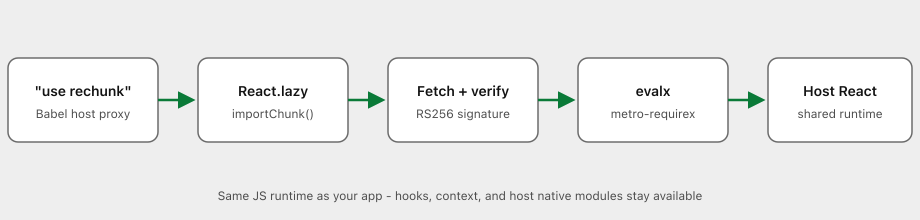
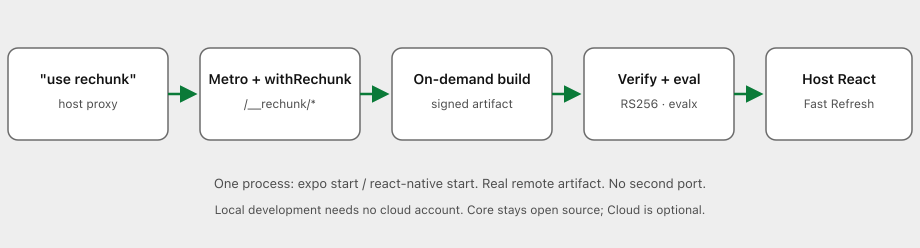
Align README with target Metro-integrated architecture from the blueprint.

diff --git a/README.md b/README.md
@@ -6,7 +6,7 @@
 
   <h1>ReChunk</h1>
 
-  <p><strong>Deploy a React Native component independently — without changing how you build your app.</strong></p>
+  <p><strong>Independently build, develop, deliver, and manage ordinary React Native components — without replacing Metro or restructuring the app.</strong></p>
 
   <p>
     <a href="https://www.npmjs.com/package/@rechunk/core"><img src="https://img.shields.io/npm/v/@rechunk/core.svg?style=flat-square&color=121212" alt="npm @rechunk/core"></a>
@@ -28,17 +28,34 @@
 
 <br>
 
-**ReChunk** is a component-level delivery layer for React Native developers. Mark a file with `"use rechunk"`, keep Metro and Expo as they are, and ship that one component as a signed remote artifact — without turning your app into a federation host.
+**ReChunk** is a component-level delivery platform for React Native. Mark a file with `"use rechunk"`, keep your usual Metro / Expo / React Native CLI, and ship that one component as a **real signed remote artifact** — not a whole-app OTA bundle, and not a Module Federation remotes project.
 
-> **Status:** public beta on npm (`@rechunk/*` **0.3.0**). Local development currently uses a companion `rechunk dev-server` on port **49904**. Metro-integrated development (no second process) and remote Fast Refresh are next milestones — see [Roadmap](#roadmap).
+> **Defining developer experience**
+>
+> 1. Add `"use rechunk";` to a default-export component  
+> 2. Run `npx expo start` or `npx react-native start`  
+> 3. The on-demand ReChunk artifact loads (and refreshes) through **Metro’s own server**  
+>
+> No second ReChunk process. No second port. No cloud account for local development.
+
+> **Status:** npm packages are public beta (`@rechunk/*` **0.3.0**). The shipped toolchain still uses a companion `rechunk dev-server` (`:49904`) while we land Metro middleware. This README describes the **target product** from the architecture blueprint; [Implementation status](#implementation-status) separates what exists today from what is decided next.
 
 ---
 
-## The idea
+## Product pillars
 
-App-level OTA (Expo Updates and similar) replaces a whole JS bundle. Module Federation can distribute remotes, but usually asks you to restructure hosts, remotes, and shared scopes.
+| Pillar | Outcome |
+| --- | --- |
+| **Zero-friction integration** | Keep Metro, Expo, and React Native CLIs; one-time init + a file directive |
+| **Reliable remote execution** | Download, validate, verify, resolve, execute, and cache a real remote artifact |
+| **Production-safe delivery** | Host-build compatibility, immutable versions, rollouts, fallback, rollback |
+| **ReChunk Cloud** *(optional)* | Component-first registry, release UI, and observability on Cloudflare |
 
-ReChunk’s bet is narrower: **one ordinary React Native component**, independently buildable and deliverable, with almost no surface area in source:
+**Nonnegotiables:** Metro stays the host bundler. `"use rechunk"` stays the opt-in API. Development runs a **real** ReChunk-bundled artifact (no silent Metro source bypass). Core stays open source; Cloud is optional. Signing authenticates artifacts — it is **not** a sandbox.
+
+---
+
+## The API
 
 ```tsx
 "use rechunk";
@@ -48,162 +65,141 @@ export default function CheckoutCard() {
 }
 ```
 
-That file still uses normal hooks, context, styles, and host native modules. At runtime it executes **inside the host JS runtime** after download and RS256 verification — not in a separate sandbox.
+Same hooks, context, styles, and host native modules. Execution stays inside the host JS runtime via [`metro-requirex`](https://github.com/crherman7/metro-requirex).
 
 ---
 
-## Why teams reach for it
-
-| You want… | ReChunk’s approach |
-| --- | --- |
-| Ship UI without a full store release | Publish a signed component artifact, not a whole app bundle |
-| Keep Metro / Expo | Host bundler stays Metro; no Re.Pack / Rspack migration required |
-| Tiny developer API | File directive + default export; Babel swaps in a `React.lazy` proxy |
-| Integrity on the wire | Artifacts are signed (RS256) and verified before evaluation |
-| Host capabilities | Shared React runtime via [`metro-requirex`](https://github.com/crherman7/metro-requirex) |
-
-**Not a claim we make:** signing is not a sandbox. Remote code runs with the same privileges as your app JS. Treat publishers and release policy as the real security boundary.
-
-**When to use something else:** if you only need whole-app OTA, Expo EAS Update is simpler. If you are building a full microfrontend platform with many remotes and shared scopes, Module Federation / Re.Pack may fit better.
-
----
-
-## How it works today
+## Target architecture
 
 <p align="center">
   <picture>
     <source media="(prefers-color-scheme: dark)" srcset="./.github/assets/readme/architecture-dark.svg">
-    <img alt="Pipeline: use rechunk directive, React.lazy importChunk, fetch and RS256 verify, evalx via metro-requirex, render in host React" src="./.github/assets/readme/architecture-light.svg" width="900">
+    <img alt="Target pipeline: use rechunk, Metro withRechunk middleware, on-demand signed build, verify and eval, host React with Fast Refresh" src="./.github/assets/readme/architecture-light.svg" width="900">
   </picture>
 </p>
 
-1. **Babel** sees `"use rechunk"`, requires a single default export, strips the implementation from the host graph, and inserts `React.lazy(() => importChunk(...))`.
-2. **Runtime** (`@rechunk/core`) fetches the artifact, verifies the signature, evaluates with `evalx`, and resolves host modules through Metro.
-3. **Dev** serves on-demand Rollup builds from `rechunk dev-server` (default `http://localhost:49904`).
-4. **Prod** publishes immutable chunks to your configured host (`rechunk publish`).
-
 ```mermaid
-flowchart LR
-  A["use rechunk component"] --> B[Babel host proxy]
-  B --> C["React.lazy → importChunk"]
-  C --> D[ChunkManager fetch]
-  D --> E[RS256 verify]
-  E --> F[metro-requirex evalx]
-  F --> G[Host React tree]
-  H[Rollup remote compiler] --> I["dev-server :49904"]
-  I --> D
+flowchart TD
+  CLI["expo start / react-native start"] --> METRO["Metro server"]
+  METRO --> APP["Normal app JS / HMR"]
+  METRO --> MW["ReChunk middleware /__rechunk/*"]
+  MW --> BUILD["On-demand Rollup / Rolldown compiler"]
+  BUILD --> SIGN["Dev signing + digest"]
+  SIGN --> RT["ReChunk runtime in the app"]
+  MW --> WATCH["Watch + invalidate"]
+  WATCH --> REFRESH["Dev-only remote Fast Refresh"]
+  REFRESH --> RT
 ```
+
+**What “no extra server” means:** no second Node process, no mandatory `:49904`, no cloud round-trip for local compile. Compilation still costs CPU inside Metro — caching and scheduling matter.
 
 ---
 
-## Quick start
+## Quick start *(target)*
 
-**Requires Node ≥ 20.14** (see root `package.json` `engines`).
+**Requires Node ≥ 20.14.**
 
-### 1. Install
-
-```bash
-npm install @rechunk/core
-npm install -D @rechunk/cli @rechunk/babel-plugin @rechunk/metro-config
-
-# or
-pnpm add @rechunk/core
-pnpm add -D @rechunk/cli @rechunk/babel-plugin @rechunk/metro-config
-```
-
-### 2. Initialize a project
-
-Creates `.rechunkrc.json` against a ReChunk host (basic auth today — expected to evolve):
+### One-time setup
 
 ```bash
-npx rechunk init \
-  --host https://your-rechunk-host.example/api/v1 \
-  --username <user> \
-  --password <password>
+npx rechunk init
 ```
 
-Hosted beta endpoint (credentials rotate; treat as demo only):
+`init` detects Expo or bare RN, installs `@rechunk/*`, composes Metro instead of replacing it, wires the Babel directive, and sets sensible local defaults. Publishing credentials stay out of the embedded runtime config.
 
-```bash
-npx rechunk init \
-  --host https://rechunk.xyz/api/v1 \
-  --username admin \
-  --password password123
-```
-
-### 3. Wire Babel + Metro
-
-**Expo** (matches `apps/expo` in this repo):
+**Metro** *(target API — `withRechunk`)*:
 
 ```js
-// babel.config.js
-const {withBabelPresetExpoOptions} = require('@rechunk/babel-plugin');
-
-module.exports = api => ({
-  presets: [['babel-preset-expo', withBabelPresetExpoOptions(api)]],
-  plugins: [['@rechunk/babel-plugin']],
-});
-```
-
-```js
-// metro.config.js
-const {cacheVersion} = require('@rechunk/metro-config');
 const {getDefaultConfig} = require('expo/metro-config');
-const {withMetroRequirexConfig} = require('@metro-requirex/metro-config');
+const {withRechunk} = require('@rechunk/metro-config');
 
 const config = getDefaultConfig(__dirname);
-config.cacheVersion = cacheVersion;
-
-module.exports = withMetroRequirexConfig(config, {eager: true});
+module.exports = withRechunk(config, {projectRoot: __dirname});
 ```
 
-**Bare React Native** — use `withReactNativeBabelPresetOptions` from `@rechunk/babel-plugin` (see `apps/react-native/babel.config.js`).
-
-### 4. Mark a component
-
-```tsx
-"use rechunk";
-
-import React, {useState} from 'react';
-import {Pressable, Text} from 'react-native';
-
-export default function PromoBanner() {
-  const [n, setN] = useState(0);
-  return (
-    <Pressable onPress={() => setN(n + 1)}>
-      <Text>Shipped remotely · taps {n}</Text>
-    </Pressable>
-  );
-}
-```
-
-Render it behind `Suspense` like any other lazy component. On first mount the host proxy calls `importChunk`, downloads the signed artifact, verifies it, and mounts the remote default export in the same React tree.
-
-### 5. Develop and publish
+### Develop
 
 ```bash
-# Terminal A — on-demand remote compiler (required today)
-npx rechunk dev-server
-
-# Terminal B — your usual Metro / Expo process
-RECHUNK_ENVIRONMENT=dev npx expo start
+npx expo start
+# or
+npx react-native start
 ```
 
+Expected: the host proxy calls `importChunk`, Metro’s ReChunk middleware builds and signs the remote artifact on demand, the runtime verifies and evaluates it, and the component renders in the normal React tree. Save the source → rebuild → **state-preserving remote Fast Refresh** (Phase 2 gate).
+
+### Publish
+
 ```bash
-# Production publish (interactive component picker)
 npx rechunk publish
-
-# Optional project management UI
-npx rechunk manage
 ```
 
-| `RECHUNK_ENVIRONMENT` | Behavior |
-| --- | --- |
-| `dev` | Load from the local ReChunk dev server |
-| `prod` | Load from the configured remote host |
-| `offline` | Offline / fixture path for local testing |
+Builds and signs an **immutable** artifact with size, dependency, and compatibility metadata, then pushes to self-hosted storage or ReChunk Cloud. Promotion / rollout is a separate, auditable step — not an implicit 100% ship.
 
-Example apps in-repo: [`apps/expo`](./apps/expo) and [`apps/react-native`](./apps/react-native) (`ios:dev` / `android:dev` scripts run `rechunk dev-server` alongside Metro).
+---
+
+## Core vs Cloud
+
+| Capability | ReChunk Core (OSS) | ReChunk Cloud |
+| --- | --- | --- |
+| `"use rechunk"` + Babel proxy | Yes | Uses Core |
+| Metro-integrated local development | Yes | Not required |
+| On-demand remote compilation | Yes | Publish via CLI / CI |
+| Runtime verify, cache, fallback | Yes | Uses Core |
+| Self-hosted release resolution | Supported path | Managed API |
+| Artifact CDN | Bring your own | R2 + Cloudflare CDN |
+| Dashboard, rollouts, audit | Optional self-host | Managed |
+| Hosted analytics | SDK hooks | Managed ingestion |
+
+Local development never depends on a Cloudflare account.
+
+---
+
+## Compared to alternatives
+
+| | ReChunk | Expo EAS Update | Module Federation / Re.Pack |
+| --- | --- | --- | --- |
+| Unit of delivery | Component artifact | App JS update | Remotes / shared scopes |
+| Host bundler | Metro kept | Metro | Often Re.Pack / custom |
+| Opt-in | File directive | Update channels | Federation config |
+| Local cloud account | Not required for Core | Expo account for EAS | Varies |
+
+We do **not** claim “nobody else does remote RN code,” “first Metro remotes,” or “signed = sandboxed.”
+
+**Use something else when:** whole-app OTA is enough (EAS Update), or you already want a full federation platform.
+
+---
+
+## Implementation status
+
+| Area | Blueprint | Today (0.3.0 beta) |
+| --- | --- | --- |
+| `"use rechunk"` → `React.lazy` / `importChunk` | Decided | **Shipped** |
+| Rollup remote compiler + RS256 verify | Decided | **Shipped** |
+| Shared host React via metro-requirex | Decided | **Shipped** |
+| Metro middleware (`withRechunk`, no `:49904`) | Decided | In progress — companion `rechunk dev-server` still required |
+| State-preserving remote Fast Refresh | Proposed | Unproven on RN / Hermes |
+| Host registry vs hashed Metro IDs | Open | Hashed IDs exist; registry / hybrid to benchmark |
+| Manifests + native compatibility gating | Planned | Limited metadata today |
+| ReChunk Cloud (Workers / D1 / R2 / dashboard) | Selected direction | Product design / mocks — not shipped |
+
+### Milestone order
+
+0. **Baseline** — reproducible signed loads on iOS/Android + benchmarks  
+1. **One Metro server** — middleware only; gate: `expo start` alone  
+2. **Remote Fast Refresh** — Counter stays at `7` + stable `useRef` on Hermes  
+3. **Host resolver hardening** — registry vs hash benchmarks; typed errors; immutable cache  
+4. **Manifests + compatibility** — reject incompatible natives before eval  
+5. **Cloud MVP** — publish, digest, canary rollout, pause/rollback  
+6. **Analytics + paid workflows** — adoption/latency with honest denominators  
+
+### Explicit non-goals (early releases)
+
+- Forced Re.Pack / Rspack migration  
+- Mandatory standalone ReChunk HTTP process  
+- Silent Metro-source bypass as the primary dev mode  
+- Full sandbox / untrusted plugin marketplace  
+- Customer-facing AI agent  
+- Blanket “app-store compliant OTA” promises  
 
 ---
 
@@ -211,52 +207,36 @@ Example apps in-repo: [`apps/expo`](./apps/expo) and [`apps/react-native`](./app
 
 | Package | Role |
 | --- | --- |
-| [`@rechunk/core`](./packages/core) | Runtime: `importChunk`, configuration, events |
-| [`@rechunk/babel-plugin`](./packages/babel-plugin) | `"use rechunk"` → host proxy |
-| [`@rechunk/cli`](./packages/cli) | `init`, `dev-server`, `publish`, `manage` |
-| [`@rechunk/metro-config`](./packages/metro-config) | Metro `cacheVersion` helper |
+| [`@rechunk/core`](./packages/core) | Runtime loader pipeline |
+| [`@rechunk/babel-plugin`](./packages/babel-plugin) | Directive → host proxy |
+| [`@rechunk/cli`](./packages/cli) | `init`, `dev-server` *(current)*, `publish`, `manage` |
+| [`@rechunk/metro-config`](./packages/metro-config) | Evolving toward `withRechunk()` |
 | [`@rechunk/rollup-preset`](./packages/rollup-preset) | Remote component bundling |
-| [`@rechunk/api-client`](./packages/api-client) | Typed HTTP client for the control plane |
+| [`@rechunk/api-client`](./packages/api-client) | Control-plane HTTP client |
 
-Companion: [`metro-requirex`](https://github.com/crherman7/metro-requirex) — deterministic host module IDs + `evalx`.
+Example apps: [`apps/expo`](./apps/expo), [`apps/react-native`](./apps/react-native).
 
----
+### Current beta workflow *(until Phase 1)*
 
-## Roadmap
-
-Direction from the working architecture blueprint. Labels match implementation reality:
-
-| Milestone | Intent | State |
-| --- | --- | --- |
-| **One Metro server** | Mount ReChunk compile/serve on Metro’s HTTP listener; retire `:49904` for the default workflow | Decided — not shipped |
-| **Remote Fast Refresh** | Rebuild the real remote artifact and preserve hook state via host React Refresh | Proposed — unproven on RN/Hermes |
-| **Host resolver** | Abstract hashed Metro IDs vs generated host registry; drop brittle eager hacks | Open — benchmark both |
-| **Manifests + compatibility** | Immutable digests, host build descriptors, block incompatible natives before eval | Planned |
-| **ReChunk Cloud** | Cloudflare Workers / D1 / R2 delivery, component-first dashboard, rollouts | Optional managed layer |
-
-Non-goals for early releases: forcing Re.Pack, sandboxing third-party plugins, or a customer-facing AI agent.
-
----
-
-## Comparison
-
-| | ReChunk | Expo EAS Update | Module Federation / Re.Pack |
-| --- | --- | --- | --- |
-| Unit of delivery | Component artifact | App JS bundle / update | Remote modules / remotes |
-| Host bundler | Metro (kept) | Metro | Often Re.Pack / custom |
-| Opt-in API | `"use rechunk"` file directive | Update channels / runtime | Federation config |
-| Local cloud account | Not required for Core | Expo account for EAS | Varies |
+```bash
+npx rechunk init --host <url> --username <user> --password <pass>
+npx rechunk dev-server          # Terminal A — :49904 today
+RECHUNK_ENVIRONMENT=dev npx expo start   # Terminal B
+npx rechunk publish
+```
 
 ---
 
 ## Contributing
 
-Development happens on the `develop` branch. See [CONTRIBUTING.md](./CONTRIBUTING.md), [CODE_OF_CONDUCT.md](./CODE_OF_CONDUCT.md), and [SECURITY.md](./SECURITY.md).
+Work lands on `develop`. See [CONTRIBUTING.md](./CONTRIBUTING.md), [CODE_OF_CONDUCT.md](./CODE_OF_CONDUCT.md), and [SECURITY.md](./SECURITY.md).
 
 ```bash
 pnpm install
 pnpm build
 ```
+
+**Implementation priority:** Metro-integrated on-demand artifacts first, then remote Fast Refresh proofs, then compatibility/Cloud — not Cloud first.
 
 ---
 
